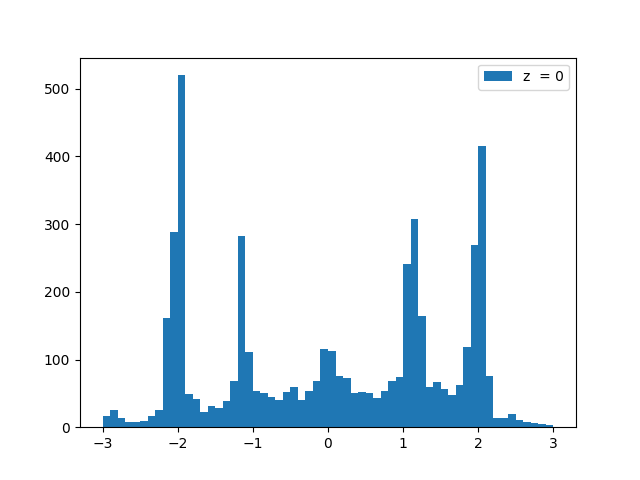
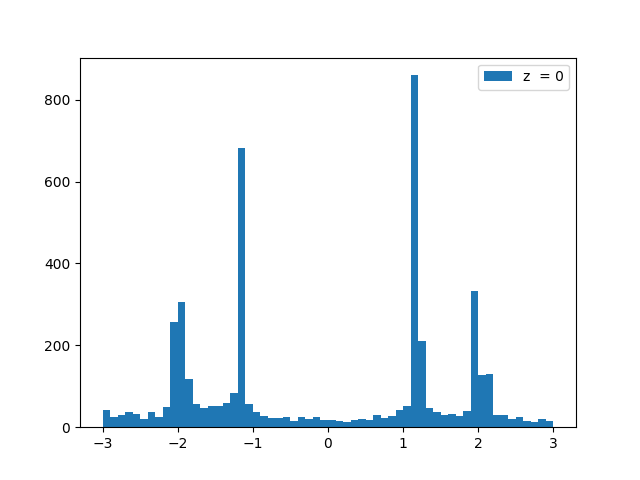
generic commit

diff --git a/scripts/transport/fit_kernel.py b/scripts/transport/fit_kernel.py
@@ -39,9 +39,9 @@ def prob_normalization(alpha):
 
 
 def train_kernel(kernel_model, n_iter = 100):
-    #optimizer = torch.optim.SGD(kernel_model.parameters(), lr= 60 * kernel_model.params['learning_rate'],
-                                #nesterov = True, momentum=0.9)
-    optimizer = torch.optim.Adam(kernel_model.parameters(), lr= kernel_model.params['learning_rate']/10)
+    optimizer = torch.optim.SGD(kernel_model.parameters(), lr= 60 * kernel_model.params['learning_rate'],
+                                nesterov = True, momentum=0.9)
+    #optimizer = torch.optim.Adam(kernel_model.parameters(), lr= kernel_model.params['learning_rate']/10)
     Loss_dict = {'n_iter': [], 'fit': [], 'reg': [], 'total': []}
     if kernel_model.test:
         Loss_dict['test'] = []

diff --git a/scripts/transport/c_transport.py b/scripts/transport/c_transport.py
@@ -472,6 +472,11 @@ def conditional_transport_exp(ref_gen, target_gen, N = 1000, n_iter = 1001, slic
     return True
 
 #003641
+
+#Adam:
+#0.000562
+#0.000937
+
 def run():
     ref_gen = sample_normal
     target_gen = sample_spirals
@@ -479,7 +484,7 @@ def run():
     slice_range = [-3,3]
     process_funcs = []
     process_funcs = [flip_2tensor, flip_2tensor ]
-    conditional_transport_exp(ref_gen, target_gen, exp_name= 'spiral_flip', N = 5000, n_iter = 10000,
+    conditional_transport_exp(ref_gen, target_gen, exp_name= 'spiral_flip2', N = 5000, n_iter = 10000,
                               plt_range=range, slice_range= slice_range, process_funcs=process_funcs, slice_vals=[0])
 
 
